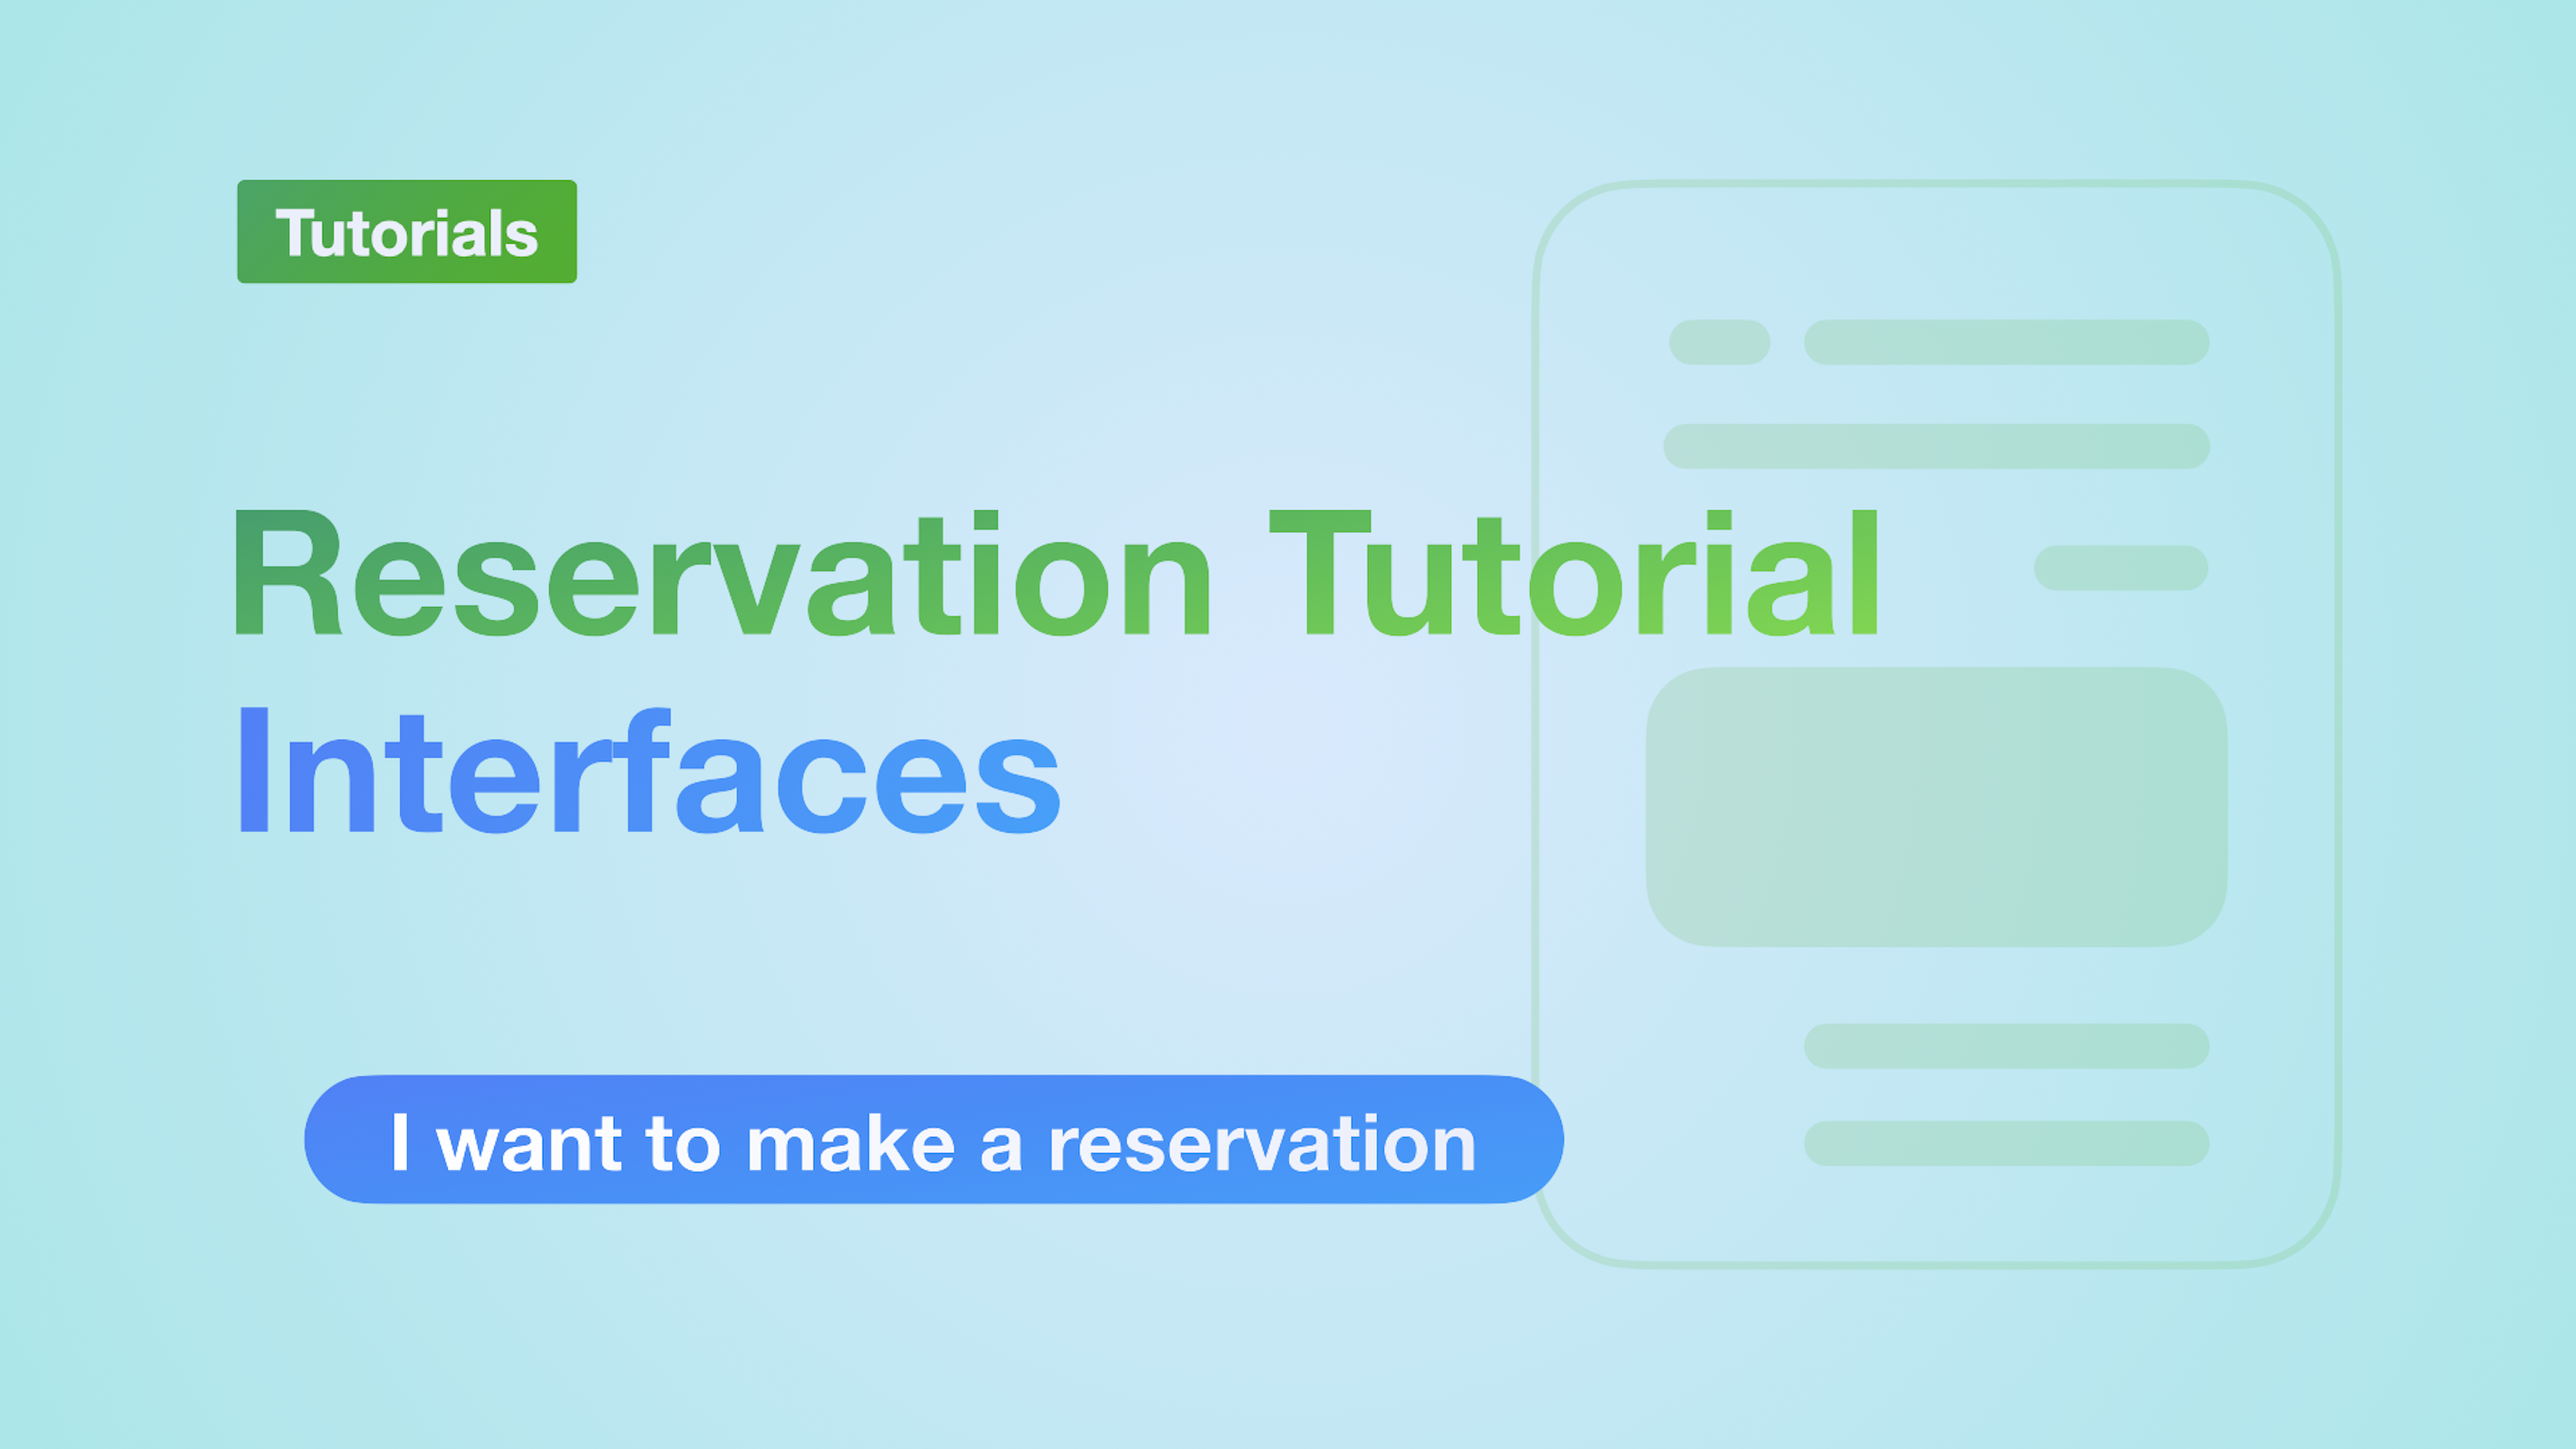
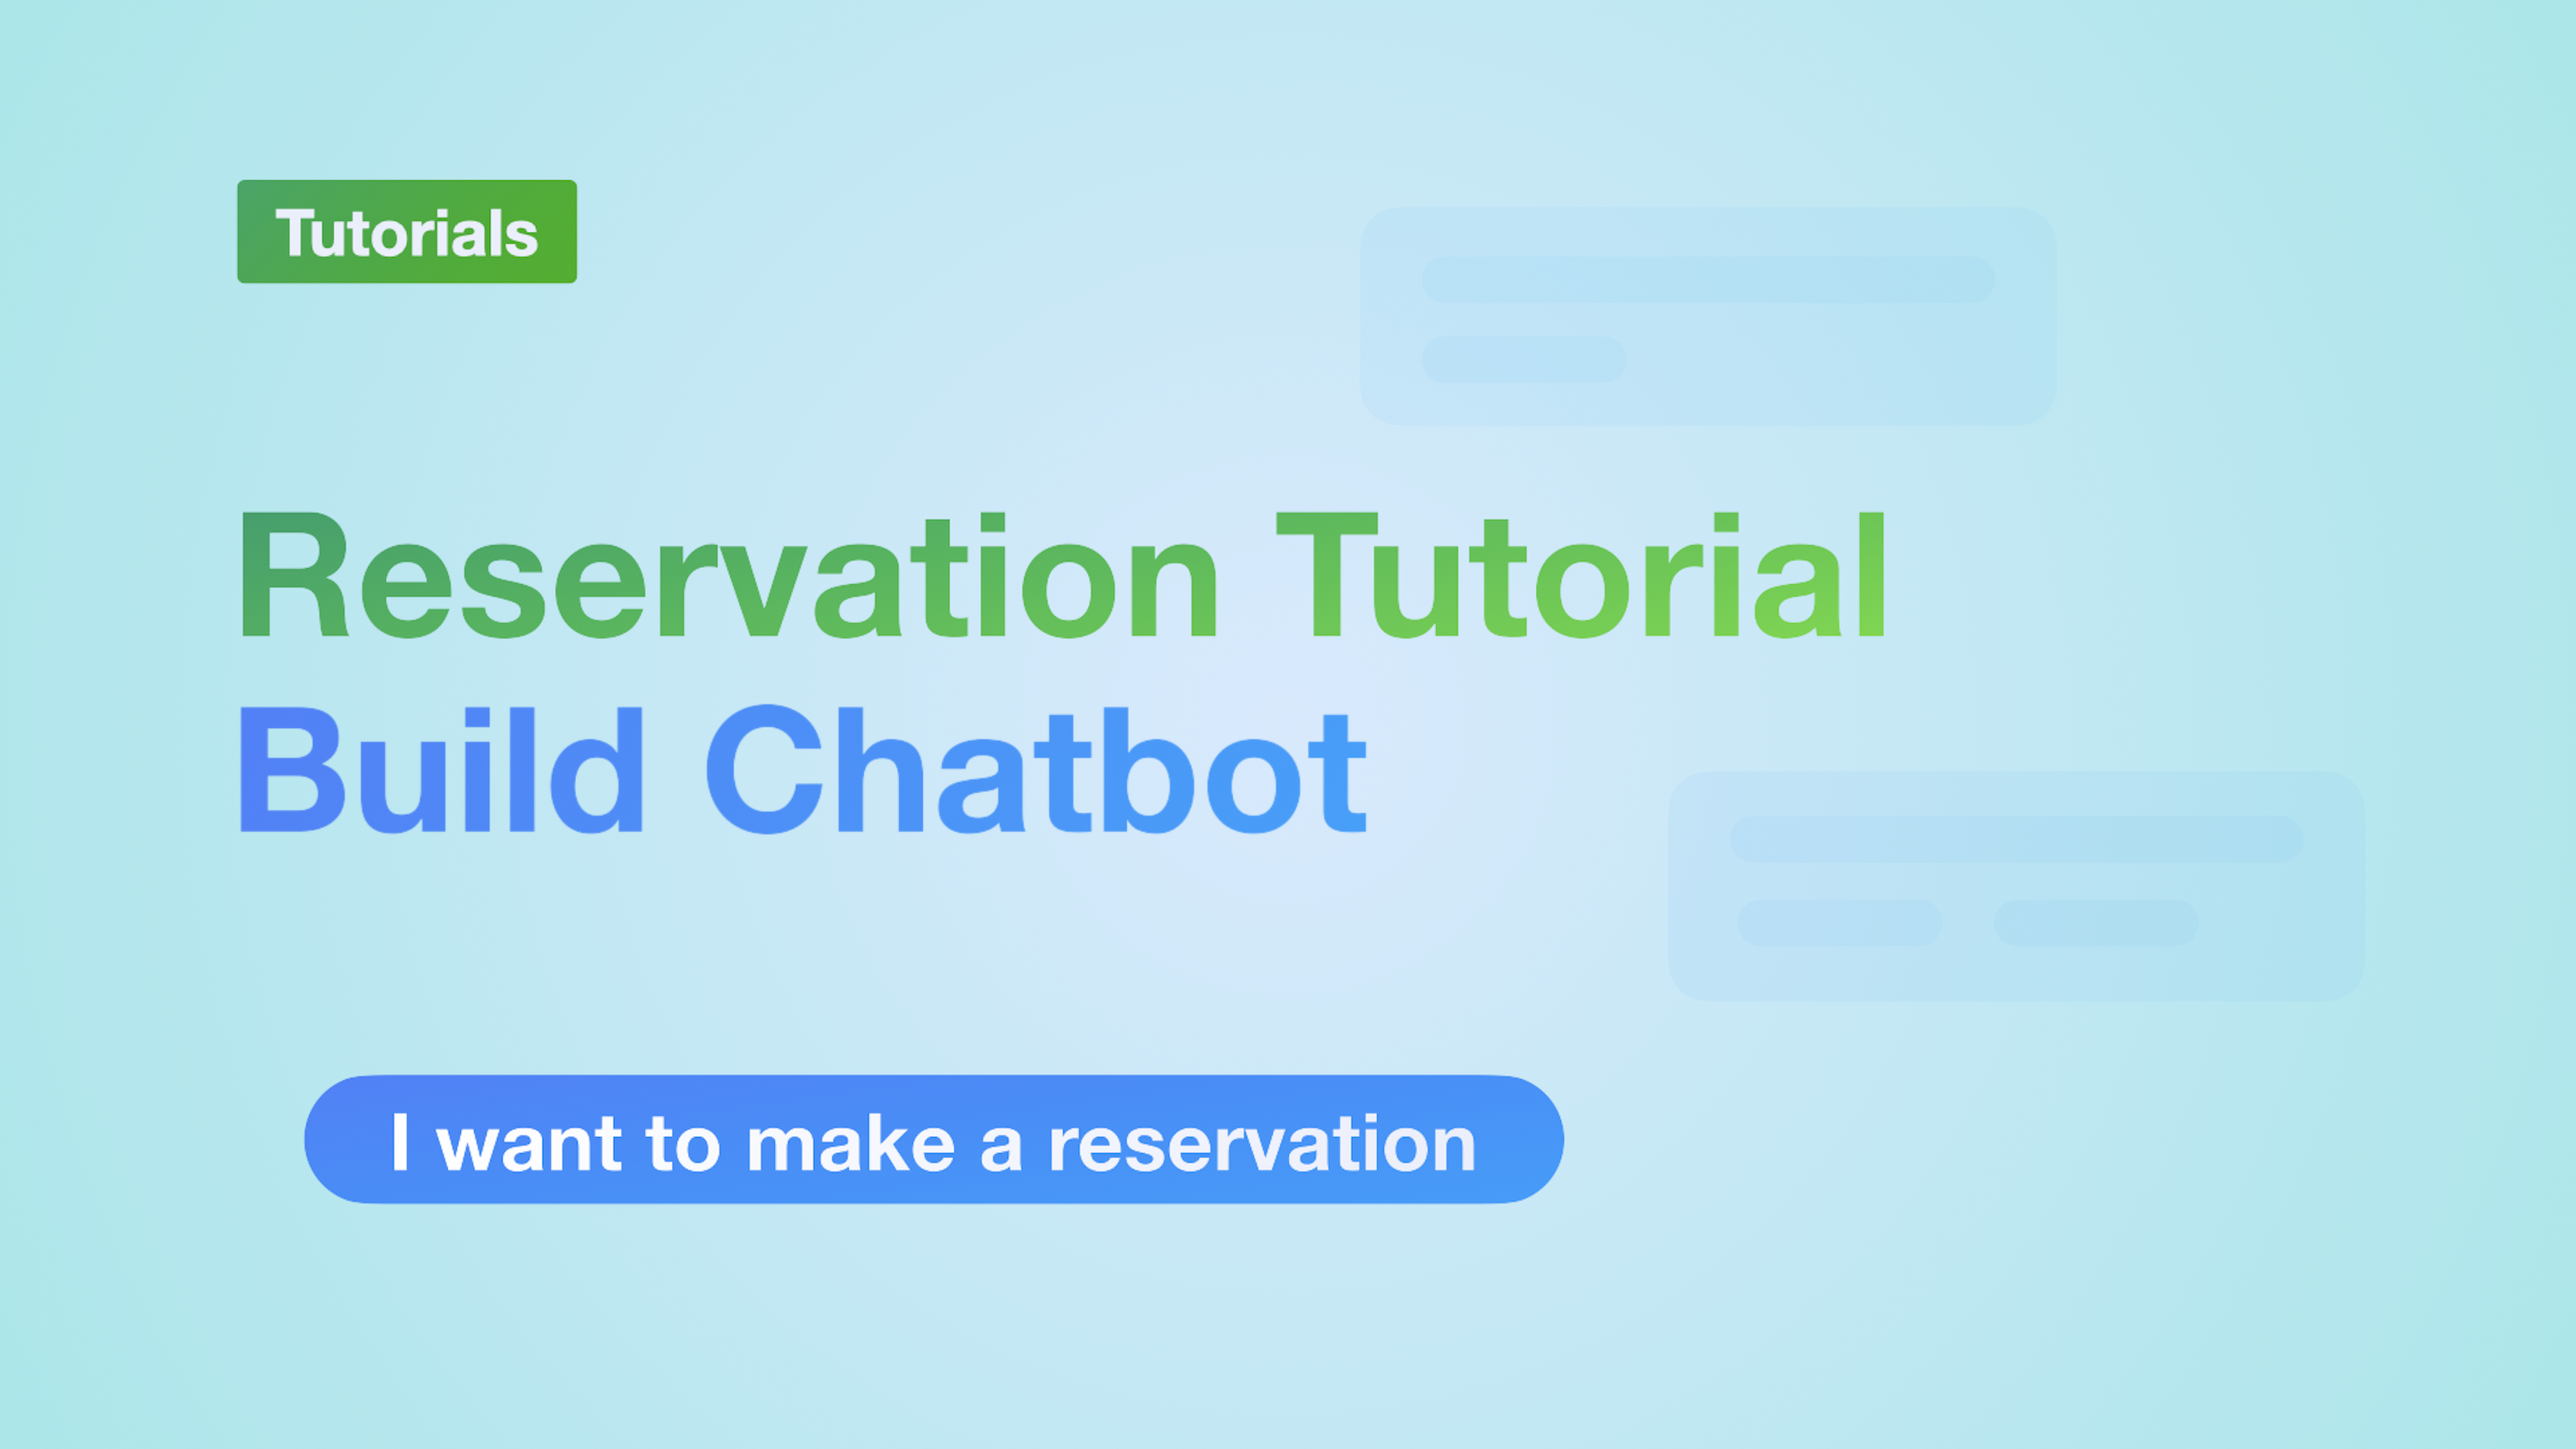
move reservation to tutorials

diff --git a/docs/articles/quickstart-reservation.md b/docs/articles/quickstart-reservation.md
@@ -1,4 +1,15 @@
-# Reuse a module
+---
+article: true
+date: 2023-04-02
+
+image:
+    - blog/banner/tutorial_reservation_i.png
+description:
+    - Reuse table reservation module to build a chatbot
+author: Sunny May
+---
+
+# How to build a reservation chatbot
 
 This guide shows you how to reuse a module to build a table reservation chatbot. A module is a reusable CUI unit with its conversational behavior defined against some service APIs. There are two kinds of module, base module come with its own service APIs, while composite module need to import other modules to deliver some complex conversational experience.
 Notice a base module can have one or more provider that provide the implementations of the service APIs defined in that module.
